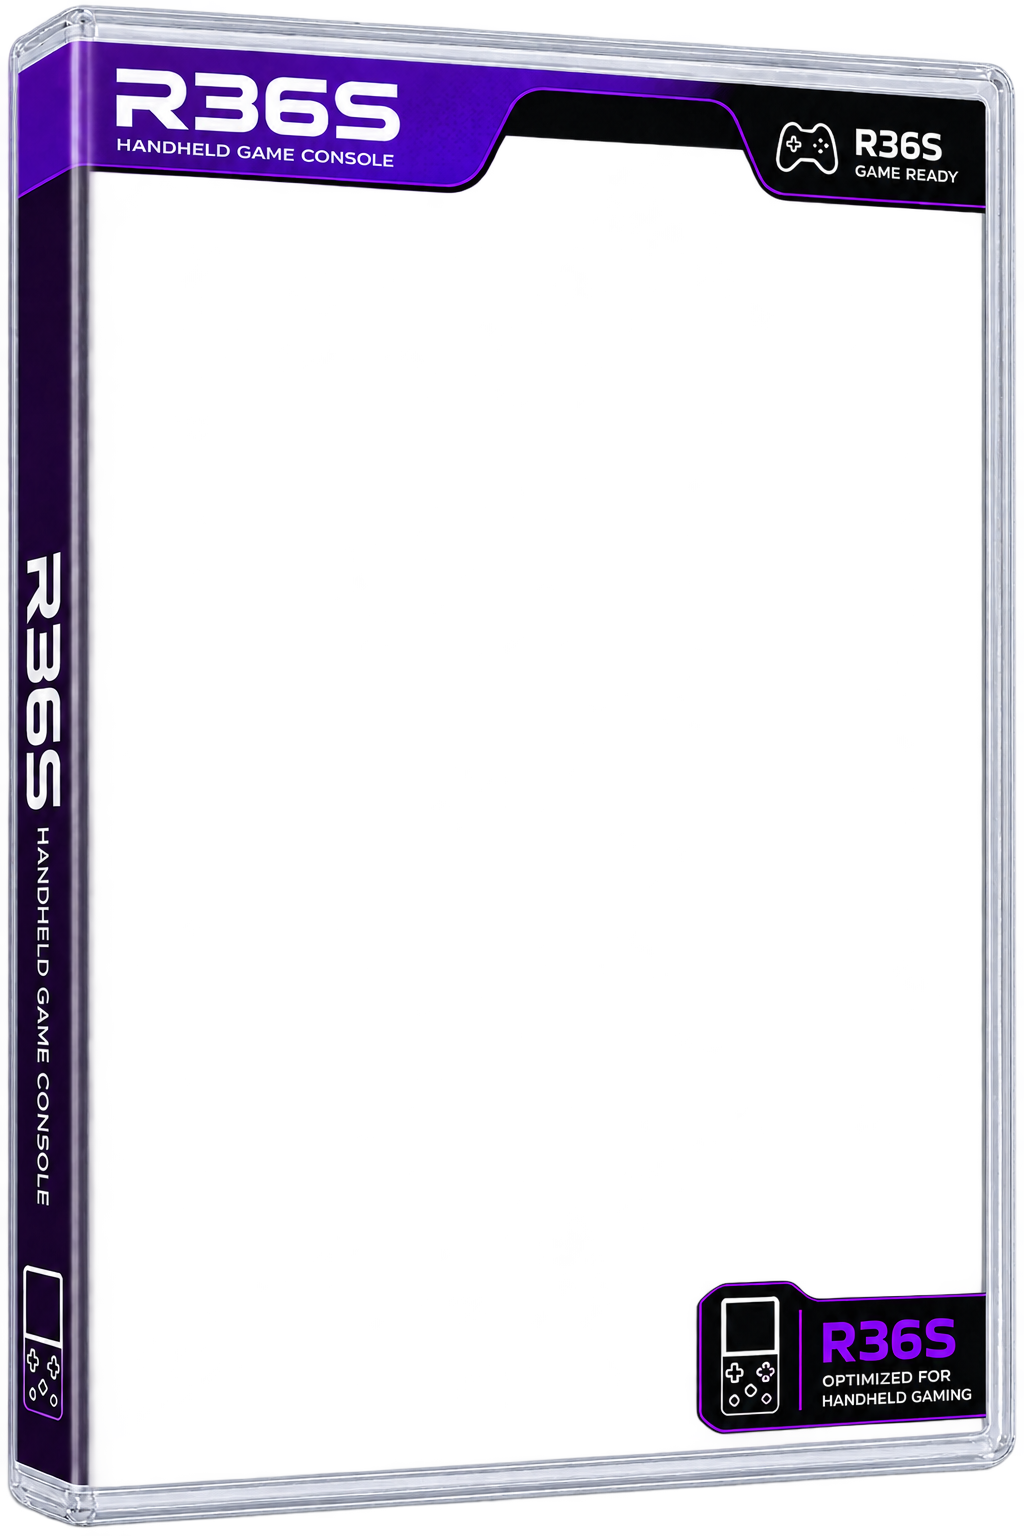
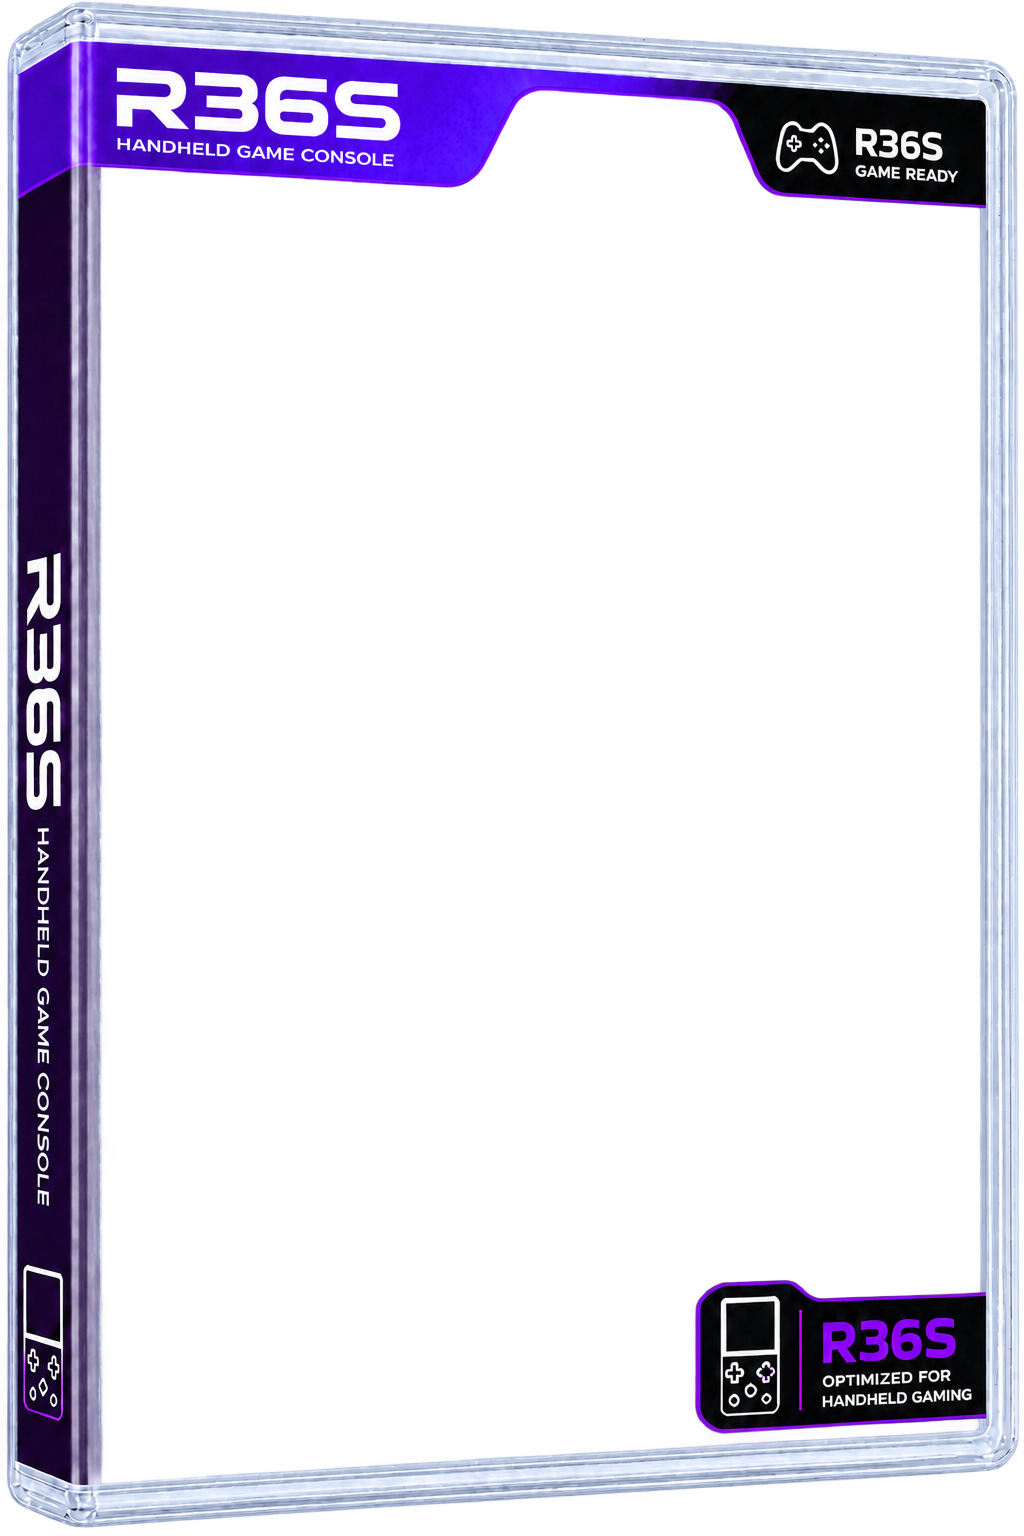
Update cover image and recalibrate case window corners
New cover.png plus re-tuned window corners for Game Case (case-render.js),
Custom (state + reset) and window-editor.html (defaults + reset):
TL=[104,63] TR=[983,116] BR=[985,1429] BL=[102,1483]

Changed region(s): [[0.0, 0.0, 1.0, 1.0], [0.75, 0.8125, 0.7812, 0.8438]]

diff --git a/window-editor.html b/window-editor.html
@@ -91,10 +91,10 @@
 
   // ---- valores iniciales (esquinas reales del case, igual que case-render.js) ----
   var q = [
-    [ 94,  108], // TL  (superior izquierda)
-    [ 985, 158], // TR  (superior derecha)
-    [989, 1433], // BR  (inferior derecha)
-    [ 92, 1492]  // BL  (inferior izquierda)
+    [ 104,  63], // TL  (superior izquierda)
+    [ 983, 116], // TR  (superior derecha)
+    [985, 1429], // BR  (inferior derecha)
+    [ 102, 1483] // BL  (inferior izquierda)
   ];
   var outW = 1024, outH = 1536;
 
@@ -274,7 +274,7 @@
     try{ document.execCommand('copy'); }catch(e){}
   });
   document.getElementById('btnReset').addEventListener('click', function(){
-    q=[[94,108],[985,158],[989,1433],[92,1492]];
+    q=[[104,63],[983,116],[985,1429],[102,1483]];
     outW=1024; outH=1536;
     document.getElementById('outW').value=outW;
     document.getElementById('outH').value=outH;

diff --git a/js/custom-render.js b/js/custom-render.js
@@ -18,10 +18,10 @@
     scale: 1,                // escala del arte (1 = cover-fit a la ventana)
     offX: 0, offY: 0,        // desplazamiento del arte (px de la ventana)
     // ventana editable del overlay: 4 esquinas (px del canvas 1024×1536)
-    winTL: [94, 108],
-    winTR: [985, 158],
-    winBR: [989, 1433],
-    winBL: [92, 1492],
+    winTL: [104, 63],
+    winTR: [983, 116],
+    winBR: [985, 1429],
+    winBL: [102, 1483],
   };
 
   // ---- carga del overlay por defecto ----
@@ -180,8 +180,8 @@
   }
   function reset(){
     state.scale=1; state.offX=0; state.offY=0;
-    state.winTL=[94,108]; state.winTR=[985,158];
-    state.winBR=[989,1433]; state.winBL=[92,1492];
+    state.winTL=[104,63]; state.winTR=[983,116];
+    state.winBR=[985,1429]; state.winBL=[102,1483];
     redraw();
   }
   function redraw(){ draw(); }

diff --git a/js/case-render.js b/js/case-render.js
@@ -116,10 +116,10 @@
 
   // ---- ventana del case: 4 esquinas (px del PNG 1024×1536) ----
   // Valores que calibraste en el editor.
-  const winTL = [94, 112];   // superior izquierda
-  const winTR = [985, 160]; // superior derecha
-  const winBR = [989, 1433]; // inferior derecha
-  const winBL = [92, 1492];  // inferior izquierda
+  const winTL = [104, 63];   // superior izquierda
+  const winTR = [983, 116];  // superior derecha
+  const winBR = [985, 1429]; // inferior derecha
+  const winBL = [102, 1483]; // inferior izquierda
 
   // ---- warp de cuadrilátero en perspectiva (franjas finas, sin costuras) ----
   // Respeta las 4 esquinas EXACTAS. Un afín no sirve porque ignora BR y desborda.
